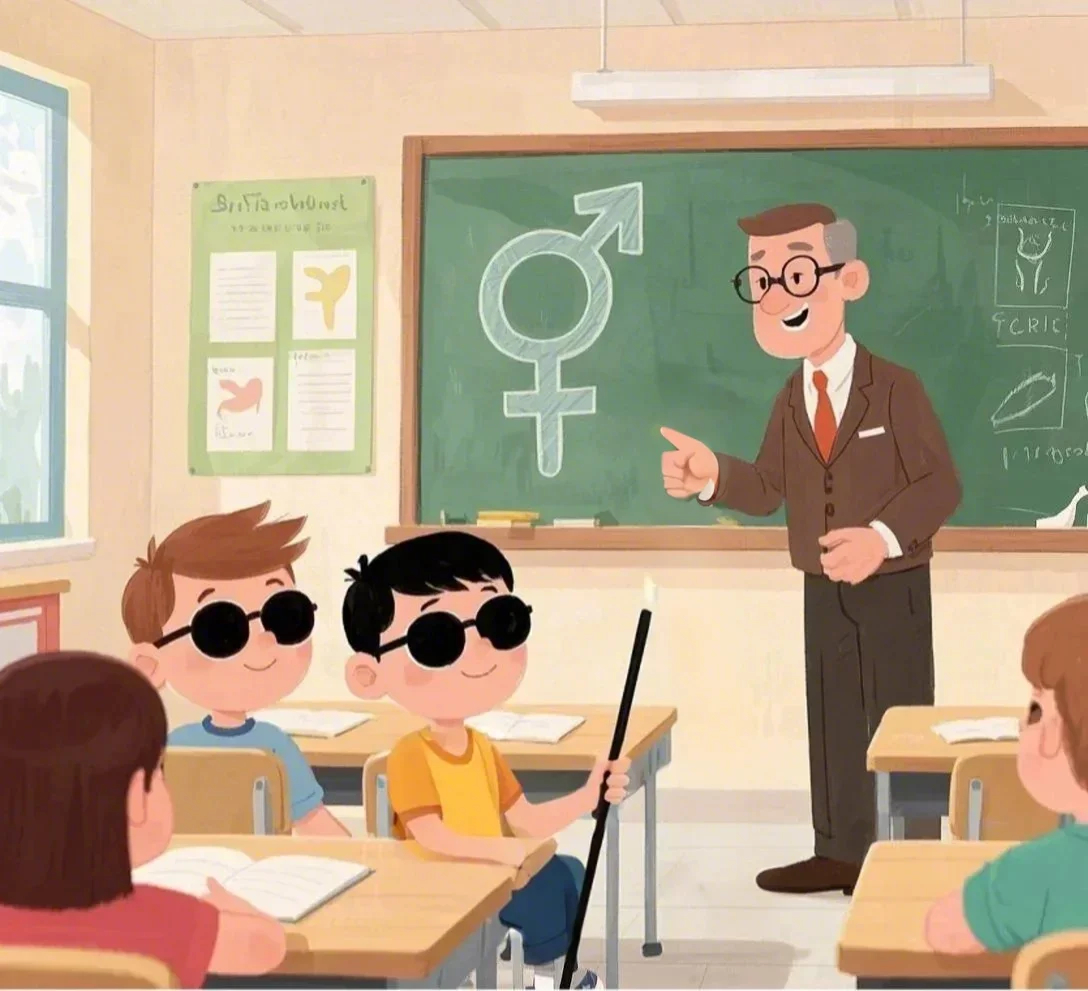
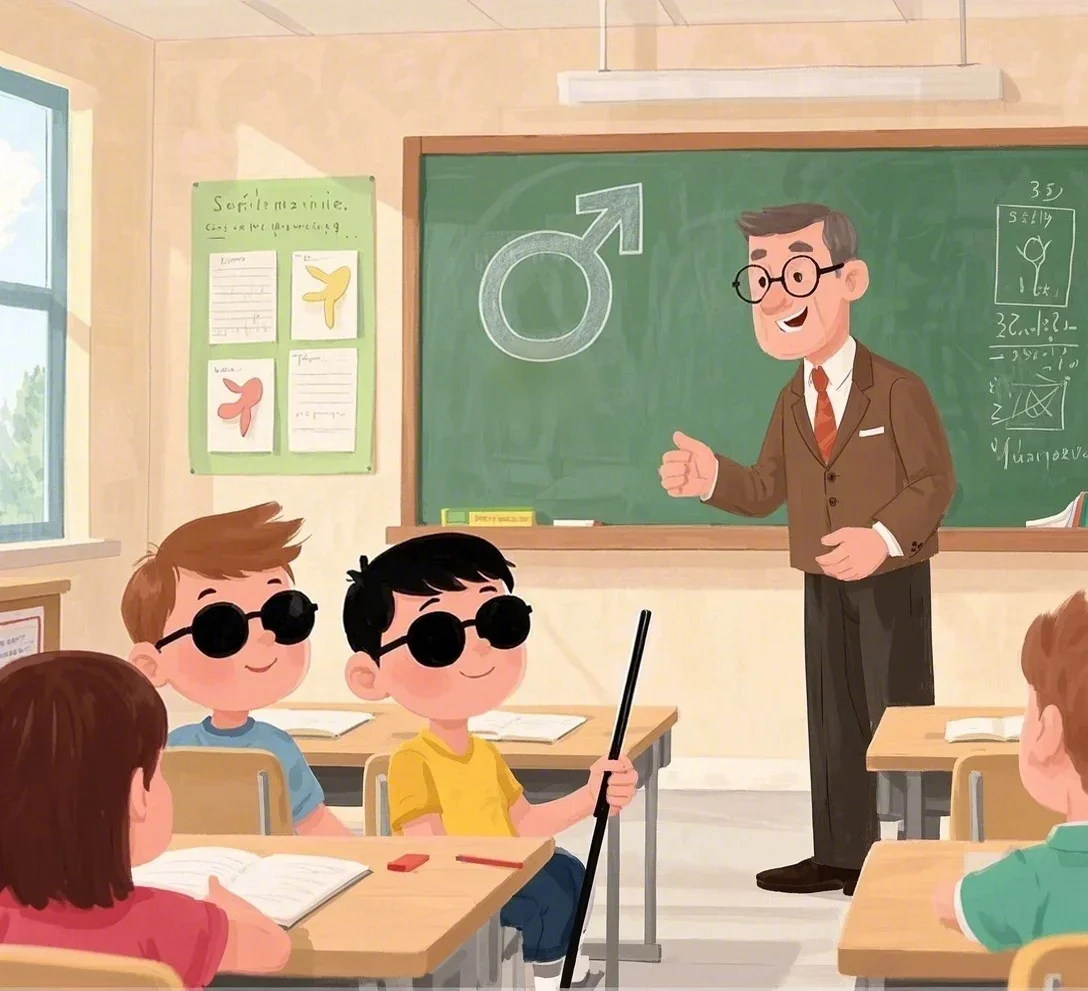
Change symbol

diff --git a/app/module/cover.tsx b/app/module/cover.tsx
@@ -27,18 +27,12 @@ export default function ModulGuruCover() {
           <p className="text-white/90 text-xs sm:text-sm font-medium mb-1">
             Universitas Negeri Yogyakarta
           </p>
-          <p className="text-white/80 text-xs">
-            Fakultas Ilmu Pendidikan Psikologi
-          </p>
-          <p className="text-white/80 text-xs">
-            Program Studi Pendidikan Luar Biasa
-          </p>
         </div>
 
         {/* Title */}
         <div className="mb-10">
           <h1 className="text-5xl sm:text-7xl md:text-9xl font-extrabold text-white leading-none mb-4 drop-shadow-2xl">
-            M⚥DIS
+            MODIS
           </h1>
           <div className="bg-white rounded-2xl p-4 sm:p-6 shadow-2xl w-full max-w-2xl mx-auto">
             <p className="text-yellow-600 font-bold text-xl sm:text-2xl md:text-3xl mb-2">
